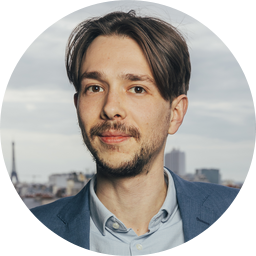
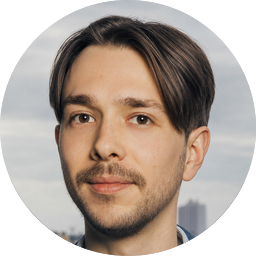
update picture

diff --git a/docs/index.html b/docs/index.html
@@ -128,7 +128,7 @@ ul.task-list li input[type="checkbox"] {
 
 <style>.narrow {width: 80% !important; margin: auto; margin-top:1.5em!important; margin-bottom:1.5em!important;}</style>
 <div class="quarto-about-jolla">
-  <img src="me.png" class="about-image
+  <img src="me.jpg" class="about-image
   round " style="height: 15em; width: 15em;">
  <header id="title-block-header" class="quarto-title-block default">
 <div class="quarto-title">
